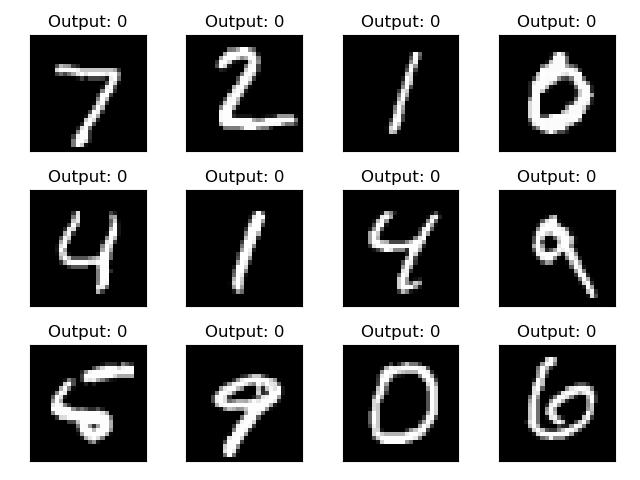
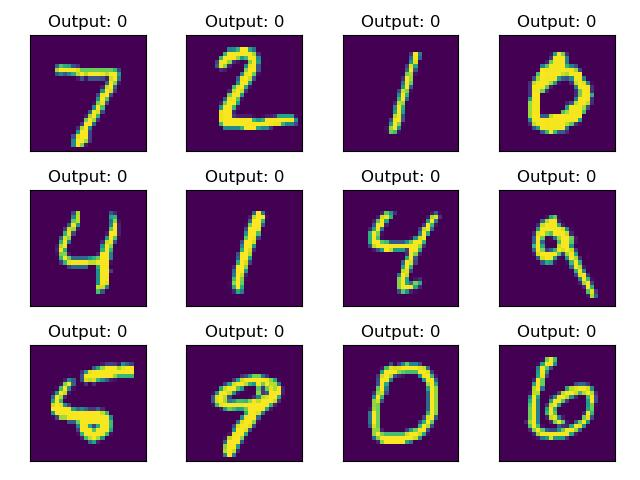
MNIST viridis

diff --git a/examples/mnist.py b/examples/mnist.py
@@ -49,7 +49,7 @@ num_col = 4
 fig, axes = plt.subplots(num_row, num_col)
 for i in range(num_row * num_col):
     ax = axes[i//num_col, i%num_col]
-    ax.imshow(test_images[i], cmap='gray')
+    ax.imshow(test_images[i], cmap='viridis')
     output = model(train_images[i].shape)
     output = int(output.data[0, 0].item())
     ax.set_title(f"Output: {output}")
